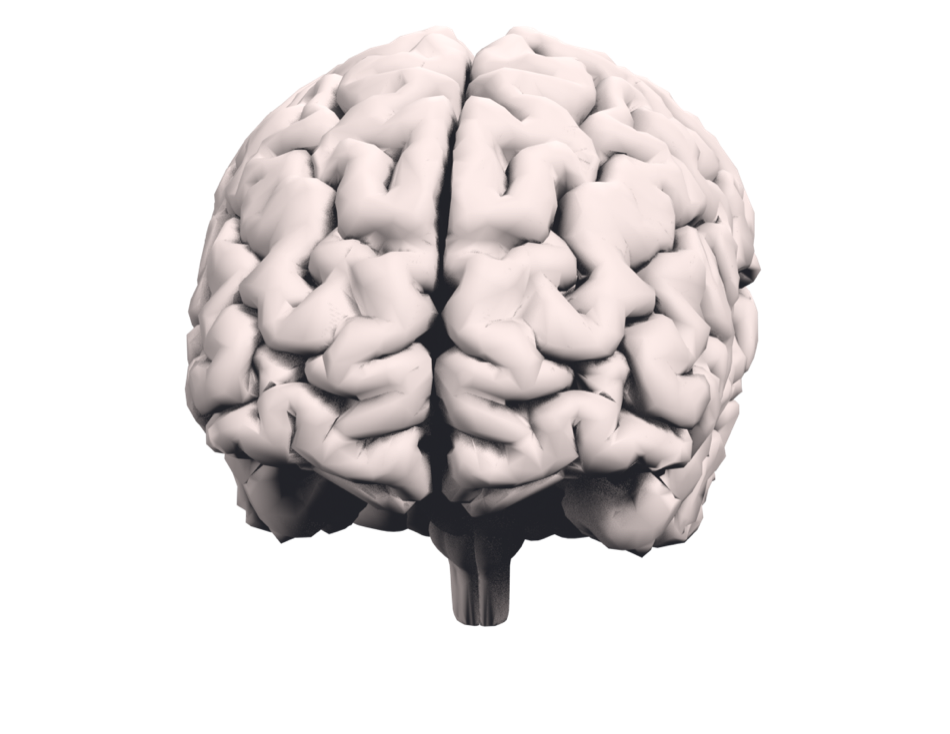
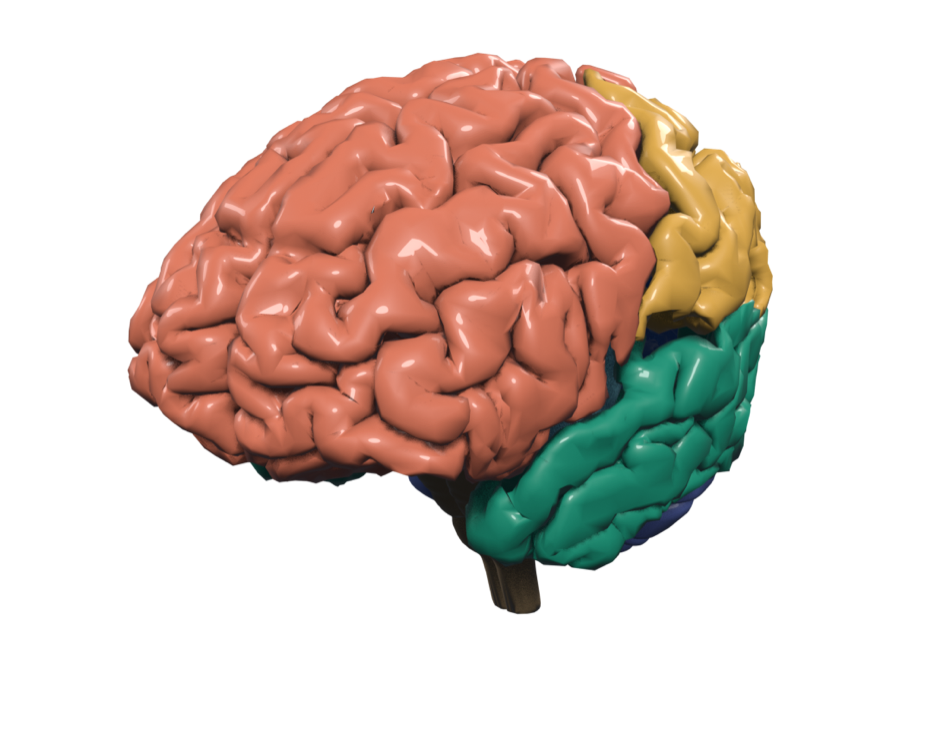
Brain explorer: unified centered window with in-stage glass info panel (brain shifts left, no overlap), fixed exploded-view framing (world-space spread + deterministic pull-back), click-to-focus + Fit view, colorized preview to match

diff --git a/brain.html b/brain.html
@@ -36,15 +36,13 @@
     .brain-chip.is-active{ color:#fff; border-color:transparent; }
     .brain-chip:focus-visible{ outline:2px solid var(--accent,#2f6f8f); outline-offset:2px; }
 
-    .brain-explorer{ max-width:1200px; margin:1.1rem auto 0; padding:0 1.2rem; display:grid; grid-template-columns:1fr; gap:1.1rem; }
-    @media(min-width:900px){ .brain-explorer{ grid-template-columns:minmax(0,1.75fr) minmax(300px,1fr); align-items:start; } }
-    .brain-main{ display:flex; flex-direction:column; gap:.7rem; min-width:0; }
-    .brain-stage{ position:relative; border:1px solid var(--border,#dcd7cd); border-radius:16px; overflow:hidden; min-height:460px;
+    .brain-explorer{ max-width:1040px; margin:1.1rem auto 0; padding:0 1.2rem; display:flex; flex-direction:column; gap:.7rem; }
+    .brain-stage{ position:relative; border:1px solid var(--border,#dcd7cd); border-radius:16px; overflow:hidden; min-height:520px;
       background:radial-gradient(120% 120% at 50% 20%, #ffffff 0%, #eef1f4 38%, #e2e7ec 70%, #d6dce2 100%); }
     .brain-stage::before{ content:""; position:absolute; inset:0; background:radial-gradient(60% 45% at 50% 42%, rgba(47,111,143,.14), transparent 70%); pointer-events:none; }
     [data-theme="dark"] .brain-stage{ background:radial-gradient(120% 120% at 50% 18%, #1c2836 0%, #121a23 60%, #0a0e13 100%); }
     [data-theme="dark"] .brain-stage::before{ background:radial-gradient(58% 44% at 50% 40%, rgba(70,150,190,.22), transparent 72%); }
-    @media(min-width:900px){ .brain-stage{ min-height:580px; } }
+    @media(min-width:900px){ .brain-stage{ min-height:680px; } }
     #brain-canvas{ position:absolute; inset:0; }
     #brain-canvas canvas{ display:block; width:100%!important; height:100%!important; touch-action:none; outline:none; }
     #brain-canvas canvas:focus-visible{ outline:2px solid var(--accent,#2f6f8f); outline-offset:-2px; }
@@ -71,8 +69,10 @@
     .brain-slider input[type=range]{ width:118px; accent-color:var(--accent,#2f6f8f); cursor:pointer; }
     .brain-toolbar__spacer{ flex:1 1 auto; }
 
-    .brain-info{ border:1px solid var(--border,#dcd7cd); border-radius:16px; background:var(--bg-alt,#faf7f1); padding:1.4rem 1.5rem; min-height:220px; position:relative; overflow:hidden; }
-    .brain-info__bar{ position:absolute; left:0; top:0; bottom:0; width:4px; background:transparent; transition:background .2s; }
+    .brain-info{ position:absolute; top:.7rem; right:.7rem; z-index:6; width:min(350px,44%); max-height:calc(100% - 1.4rem); overflow-y:auto; border:1px solid var(--brain-glass-bd); border-radius:14px; background:var(--brain-glass); backdrop-filter:blur(11px); padding:1.15rem 1.25rem 1.25rem; color:var(--brain-glass-fg); opacity:0; visibility:hidden; transform:translateX(10px); transition:opacity .2s ease, transform .2s ease, visibility .2s; }
+    .brain-info.is-visible{ opacity:1; visibility:visible; transform:none; }
+    @media(max-width:720px){ .brain-info{ top:auto; left:.6rem; right:.6rem; bottom:.6rem; width:auto; max-height:56%; } }
+    .brain-info__bar{ position:absolute; left:0; top:0; bottom:0; width:4px; border-radius:14px 0 0 14px; background:transparent; transition:background .2s; }
     .brain-info__eyebrow{ display:inline-flex; align-items:center; gap:.45rem; font-family:var(--sans,Inter); font-size:.66rem; font-weight:700; letter-spacing:.12em; text-transform:uppercase; color:var(--accent,#2f6f8f); margin:0 0 .4rem; }
     .brain-info__dot{ width:.66rem; height:.66rem; border-radius:3px; flex:none; box-shadow:0 0 0 1px rgba(0,0,0,.15) inset; }
     .brain-info h2{ font-family:var(--serif,Newsreader); font-weight:600; font-size:1.6rem; margin:0 0 .2rem; line-height:1.14; }
@@ -118,33 +118,29 @@
     <div class="brain-chips" id="brain-chips" role="group" aria-label="Jump to a brain region"></div>
 
     <section class="brain-explorer" aria-label="Interactive 3D brain">
-      <div class="brain-main">
-        <div class="brain-stage">
-          <div id="brain-canvas"></div>
-          <div class="brain-legend" id="brain-legend" aria-label="Lobe colour key"></div>
-          <div id="brain-tooltip" class="brain-tooltip" role="status" aria-live="off"></div>
-          <div id="brain-loading" class="brain-loading">Loading the brain&hellip;</div>
-          <div id="brain-fallback" class="brain-fallback">
-            <img src="img/brain-preview.png" alt="A detailed 3D anatomical brain">
-            <p id="brain-fallback-msg">Your browser could not start 3D graphics. You can still read about each region using the buttons above.</p>
-          </div>
-          <p class="brain-hint" id="brain-hint">Drag to rotate &middot; scroll to zoom &middot; click a region</p>
+      <div class="brain-stage">
+        <div id="brain-canvas"></div>
+        <div class="brain-legend" id="brain-legend" aria-label="Lobe colour key"></div>
+        <aside class="brain-info" id="brain-info" aria-live="polite"></aside>
+        <div id="brain-tooltip" class="brain-tooltip" role="status" aria-live="off"></div>
+        <div id="brain-loading" class="brain-loading">Loading the brain&hellip;</div>
+        <div id="brain-fallback" class="brain-fallback">
+          <img src="img/brain-preview.png" alt="A detailed 3D anatomical brain">
+          <p id="brain-fallback-msg">Your browser could not start 3D graphics. You can still read about each region using the buttons above.</p>
         </div>
-        <div class="brain-toolbar" id="brain-toolbar" role="toolbar" aria-label="Brain view controls">
-          <button class="brain-tool" id="tool-xray" type="button" aria-pressed="false" title="See through the cortex to the deep structures">X-ray</button>
-          <label class="brain-slider">Explode
-            <input type="range" id="tool-explode" min="0" max="100" value="0" aria-label="Explode view amount">
-          </label>
-          <button class="brain-tool" id="tool-tour" type="button" aria-pressed="false" title="Step through every region">Take the tour</button>
-          <span class="brain-toolbar__spacer"></span>
-          <button class="brain-tool" id="tool-snapshot" type="button" title="Download this view as an image">Snapshot</button>
-          <button class="brain-tool" id="tool-reset" type="button" title="Back to the whole brain">Reset</button>
-        </div>
+        <p class="brain-hint" id="brain-hint">Drag to rotate &middot; scroll to zoom &middot; click a region</p>
       </div>
-      <aside class="brain-info" id="brain-info" aria-live="polite">
-        <span class="brain-info__bar" id="brain-info-bar"></span>
-        <p class="brain-info__default">Click any part of the brain, or use the buttons above, to learn what it does.</p>
-      </aside>
+      <div class="brain-toolbar" id="brain-toolbar" role="toolbar" aria-label="Brain view controls">
+        <button class="brain-tool" id="tool-xray" type="button" aria-pressed="false" title="See through the cortex to the deep structures">X-ray</button>
+        <label class="brain-slider">Explode
+          <input type="range" id="tool-explode" min="0" max="100" value="0" aria-label="Explode view amount">
+        </label>
+        <button class="brain-tool" id="tool-fit" type="button" title="Zoom out to see the whole model">Fit view</button>
+        <button class="brain-tool" id="tool-tour" type="button" aria-pressed="false" title="Step through every region">Take the tour</button>
+        <span class="brain-toolbar__spacer"></span>
+        <button class="brain-tool" id="tool-snapshot" type="button" title="Download this view as an image">Snapshot</button>
+        <button class="brain-tool" id="tool-reset" type="button" title="Back to the whole brain">Reset</button>
+      </div>
     </section>
 
     <p class="brain-credit">3D model: Z-Anatomy (Gauthier Kervyn) &amp; BodyParts3D / DBCLS, licensed <a href="https://creativecommons.org/licenses/by-sa/4.0/" target="_blank" rel="noopener">CC BY-SA 4.0</a>. Descriptions written and sourced by The Neuroscience Review.</p>
@@ -255,8 +251,11 @@
     let brain = null;
     const meshes = [];
     let modelRadius = 1, baseScale = 1;
-    let needsRender = true, focusing = false, focusDist = null;
-    const targetFocus = new THREE.Vector3(0,0,0);
+    let needsRender = true, focusing = false;
+    const targetFocus = new THREE.Vector3(0,0,0);         // controls.target eases here
+    const targetCamPos = new THREE.Vector3(0,0.05,2.6);   // camera.position eases here
+    function framingDist(r){ return r / Math.sin(THREE.MathUtils.degToRad(camera.fov/2)); }
+    function viewDir(){ const d = camera.position.clone().sub(controls.target); if(d.lengthSq()<1e-6) d.set(0,0.03,1); return d.normalize(); }
     const raycaster = new THREE.Raycaster();
     const pointer = new THREE.Vector2();
 
@@ -294,7 +293,7 @@
 
       controls = new OrbitControls(camera, renderer.domElement);
       controls.enableDamping = true; controls.dampingFactor = 0.08;
-      controls.minDistance = 1.1; controls.maxDistance = 6; controls.enablePan = false;
+      controls.minDistance = 1.0; controls.maxDistance = 8; controls.enablePan = true;
       controls.autoRotate = !rm.matches; controls.autoRotateSpeed = 0.55;
       controls.addEventListener('change', () => { needsRender = true; });
 
@@ -335,7 +334,7 @@
       brain.scale.setScalar(scale);
       brain.position.sub(center.multiplyScalar(scale));
       brain.updateWorldMatrix(true, true);
-      modelRadius = 0.85;
+      modelRadius = Math.max(size.x, size.y, size.z) / 2;  // LOCAL radius (pre-scale); explode offsets are in local space
       const brainBox = new THREE.Box3().setFromObject(brain);
       const brainCenter = brainBox.getCenter(new THREE.Vector3());
       brain.traverse(o => {
@@ -373,15 +372,19 @@
       const selRegion = sel && sel.userData.region;
       const selDeep = selRegion && selRegion.group === 'deep';
       const cortexDim = state.xray ? 0.14 : 0.18;
+      const exploded = state.explode > 0.02;
       meshes.forEach(m => {
         const region = m.userData.region;
         const isCortex = region && region.group === 'cortex';
         let opacity = 1, emissiveScale = 0;
-        if(sel){
-          if(m === sel){ opacity = 1; emissiveScale = 0.55; }
+        if(sel && !exploded){
+          // isolate mode: ghost everything but the selected structure
+          if(m === sel){ emissiveScale = 0.55; }
           else { opacity = selDeep ? 0.05 : (isCortex ? 0.2 : 0.08); }
-        } else if(state.xray && isCortex){
-          opacity = cortexDim;
+        } else {
+          // exploded (or nothing selected): show all pieces; selected just glows; x-ray ghosts cortex
+          if(m === sel) emissiveScale = 0.55;
+          if(state.xray && isCortex) opacity = cortexDim;
         }
         const translucent = opacity < 0.999;
         m.material.transparent = translucent;
@@ -398,18 +401,30 @@
         }
         // explode: translate along tuned direction (cortex opens, deep spreads a bit less)
         const e = state.explode;
-        const spread = (isCortex ? 0.5 : 0.4) * modelRadius;
-        m.position.copy(m.userData.home).addScaledVector(m.userData.dir, e * spread);
+        const spreadWorld = isCortex ? 0.7 : 0.55;   // world units of travel at full explode
+        m.position.copy(m.userData.home).addScaledVector(m.userData.dir, e * spreadWorld / baseScale);
       });
-      // shrink the whole group as it explodes so the fanned-out assembly stays framed
-      if(brain) brain.scale.setScalar(baseScale * (1 - state.explode * 0.34));
+      updateAutoRotate();
       needsRender = true;
+    }
+    // Auto-rotate only when idle: not selected, not touring, not exploded, motion allowed.
+    function updateAutoRotate(){
+      if(controls) controls.autoRotate = !rm.matches && !state.selected && !state.tour && state.explode < 0.02;
+    }
+
+    // Frame the entire (possibly exploded) assembly so every piece stays in view.
+    function frameAll(){
+      if(!controls) return;
+      targetFocus.set(0,0,0);
+      const dist = 2.6 + state.explode * 1.8;   // pull back as the model explodes so all pieces stay in view
+      targetCamPos.copy(viewDir().multiplyScalar(dist));
+      focusing = true;
     }
 
     // ---- Info panel ----
     const DEFAULT_INFO = '<span class="brain-info__bar" id="brain-info-bar"></span><p class="brain-info__default">Click any part of the brain, or use the buttons above, to learn what it does.</p>';
     function showInfo(region){
-      if(!region){ infoEl.innerHTML = DEFAULT_INFO; return; }
+      if(!region){ infoEl.classList.remove('is-visible'); infoEl.innerHTML = ''; setViewBias(false); return; }
       const groupLabel = region.group === 'cortex' ? 'Lobe' : 'Deep structure';
       let h = '<span class="brain-info__bar" style="background:'+region.color+'"></span>';
       h += '<p class="brain-info__eyebrow"><span class="brain-info__dot" style="background:'+region.color+'"></span>'+groupLabel+'</p>';
@@ -422,6 +437,16 @@
       if(region.src) h += '<span class="brain-info__src">Source: <a href="'+region.src.url+'" target="_blank" rel="noopener">'+region.src.title+'</a></span>';
       h += '</div>';
       infoEl.innerHTML = h;
+      infoEl.classList.add('is-visible');
+      setViewBias(true);
+    }
+    // Shift the rendered brain left (lens shift) when the info panel is open, so they never overlap.
+    function setViewBias(open){
+      if(!camera || !renderer) return;
+      const w = stageEl.clientWidth, h = stageEl.clientHeight;
+      if(open && w >= 720){ camera.setViewOffset(w, h, Math.min(w*0.17, 155), 0, w, h); }
+      else { camera.clearViewOffset(); }
+      needsRender = true;
     }
     function markChip(region){
       document.querySelectorAll('.brain-chip').forEach(c => {
@@ -442,14 +467,22 @@
       if(controls && !state.tour) controls.autoRotate = false;
       refresh();
       if(target && controls){
+        // zoom to frame the clicked structure, whether exploded or not
         const bx = new THREE.Box3().setFromObject(target); bx.getCenter(targetFocus);
         const sph = bx.getBoundingSphere(new THREE.Sphere());
-        focusDist = Math.min(4, Math.max(1.3, sph.radius / Math.sin(THREE.MathUtils.degToRad(camera.fov/2)) * 1.8));
+        const dist = Math.min(5, Math.max(1.3, framingDist(sph.radius) * 1.7));
+        targetCamPos.copy(targetFocus).add(viewDir().multiplyScalar(dist));
         focusing = true;
       }
       showInfo(region);
       markChip(region);
       if(!opts.silent) writeHash();
+    }
+    // Back out from a focused piece to the whole (possibly exploded) assembly, keeping explode/x-ray.
+    function defocus(){
+      state.selected = null;
+      refresh(); showInfo(null); markChip(null);
+      frameAll(); writeHash();
     }
     function resetView(){
       state.selected = null; state.xray = false; state.explode = 0; stopTour();
@@ -457,7 +490,7 @@
       document.getElementById('tool-explode').value = 0;
       refresh();
       showInfo(null); markChip(null);
-      if(controls){ targetFocus.set(0,0,0); focusDist = 2.6; focusing = true; controls.autoRotate = !rm.matches; }
+      if(controls){ targetFocus.set(0,0,0); targetCamPos.set(0,0.05,2.6); focusing = true; controls.autoRotate = !rm.matches; }
       writeHash();
     }
 
@@ -494,8 +527,9 @@
       state.xray = !state.xray; e.currentTarget.setAttribute('aria-pressed', String(state.xray)); refresh(); writeHash();
     });
     document.getElementById('tool-explode').addEventListener('input', (e) => {
-      state.explode = (+e.target.value)/100; refresh(); writeHash();
+      state.explode = (+e.target.value)/100; refresh(); frameAll(); writeHash();
     });
+    document.getElementById('tool-fit').addEventListener('click', () => { if(state.selected) defocus(); else frameAll(); });
     document.getElementById('tool-tour').addEventListener('click', () => { state.tour ? stopTour() : startTour(); });
     document.getElementById('tool-reset').addEventListener('click', resetView);
     document.getElementById('tool-snapshot').addEventListener('click', snapshot);
@@ -551,8 +585,9 @@
       const ex = parseInt(p.get('explode')||'0', 10);
       if(ex > 0){ state.explode = Math.min(1, ex/100); document.getElementById('tool-explode').value = ex; }
       const reg = p.get('region');
-      if(reg){ const r = regionForName(reg) || REGIONS.find(x => x.mesh === reg); if(r){ selectRegion(r, { silent:true }); return; } }
+      if(reg){ const r = regionForName(reg) || REGIONS.find(x => x.mesh === reg); if(r){ selectRegion(r, { silent:true }); if(state.explode > 0.02) frameAll(); return; } }
       refresh();
+      if(state.explode > 0.02) frameAll();
     }
 
     // ---- Pointer: select only on a genuine tap/click (not a rotate drag) ----
@@ -575,7 +610,8 @@
       if(state.tour) stopTour();
       const m = pick(e.clientX, e.clientY);
       if(m && m.userData.region) selectRegion(m.userData.region);
-      else if(state.selected) resetView(); // tap empty space to clear
+      else if(state.selected) defocus();          // tap empty space to back out to the full view
+      else if(state.explode > 0.02) frameAll();    // re-fit the exploded assembly
     }
     if(webglOk()){
       renderer.domElement.addEventListener('pointerdown', onDown);
@@ -597,7 +633,7 @@
 
       // Keyboard: arrows cycle regions, Esc reset, R reset camera, T tour
       renderer.domElement.addEventListener('keydown', (e) => {
-        if(e.key === 'Escape'){ resetView(); }
+        if(e.key === 'Escape'){ state.selected ? defocus() : resetView(); }
         else if(e.key === 'ArrowRight' || e.key === 'ArrowDown'){ e.preventDefault(); cycle(1); }
         else if(e.key === 'ArrowLeft' || e.key === 'ArrowUp'){ e.preventDefault(); cycle(-1); }
         else if(e.key === 't' || e.key === 'T'){ state.tour ? stopTour() : startTour(); }
@@ -618,6 +654,7 @@
       if(!w || !h) return;
       renderer.setPixelRatio(Math.min(devicePixelRatio, 2));
       renderer.setSize(w, h); camera.aspect = w/h; camera.updateProjectionMatrix();
+      setViewBias(infoEl.classList.contains('is-visible'));
       needsRender = true;
     }
     if(window.ResizeObserver){ new ResizeObserver(onResize).observe(stageEl); }
@@ -628,19 +665,19 @@
     function animate(){
       requestAnimationFrame(animate);
       if(!renderer) return;
-      let render = false;
+      // During a focus transition, move the camera manually and DON'T call controls.update()
+      // (update() re-derives the camera from OrbitControls' internal state and fights the lerp).
       if(focusing){
-        controls.target.lerp(targetFocus, 0.1);
-        if(focusDist != null){
-          const off = camera.position.clone().sub(controls.target);
-          off.setLength(off.length() + (focusDist - off.length()) * 0.1);
-          camera.position.copy(controls.target).add(off);
+        controls.target.lerp(targetFocus, 0.14);
+        camera.position.lerp(targetCamPos, 0.14);
+        camera.lookAt(controls.target);
+        if(controls.target.distanceToSquared(targetFocus) < 1e-4 && camera.position.distanceToSquared(targetCamPos) < 1e-4){
+          controls.target.copy(targetFocus); camera.position.copy(targetCamPos); camera.lookAt(controls.target); focusing = false;
         }
-        const closeT = controls.target.distanceToSquared(targetFocus) < 1e-5;
-        const closeD = focusDist == null || Math.abs(camera.position.distanceTo(controls.target) - focusDist) < 0.015;
-        if(closeT && closeD){ controls.target.copy(targetFocus); focusing = false; focusDist = null; }
-        render = true;
+        renderer.render(scene, camera);
+        return;
       }
+      let render = false;
       if(controls.autoRotate) render = true;
       if(needsRender) render = true;
       needsRender = false;              // reset first; controls.update() re-sets it via 'change' while damping/rotating
